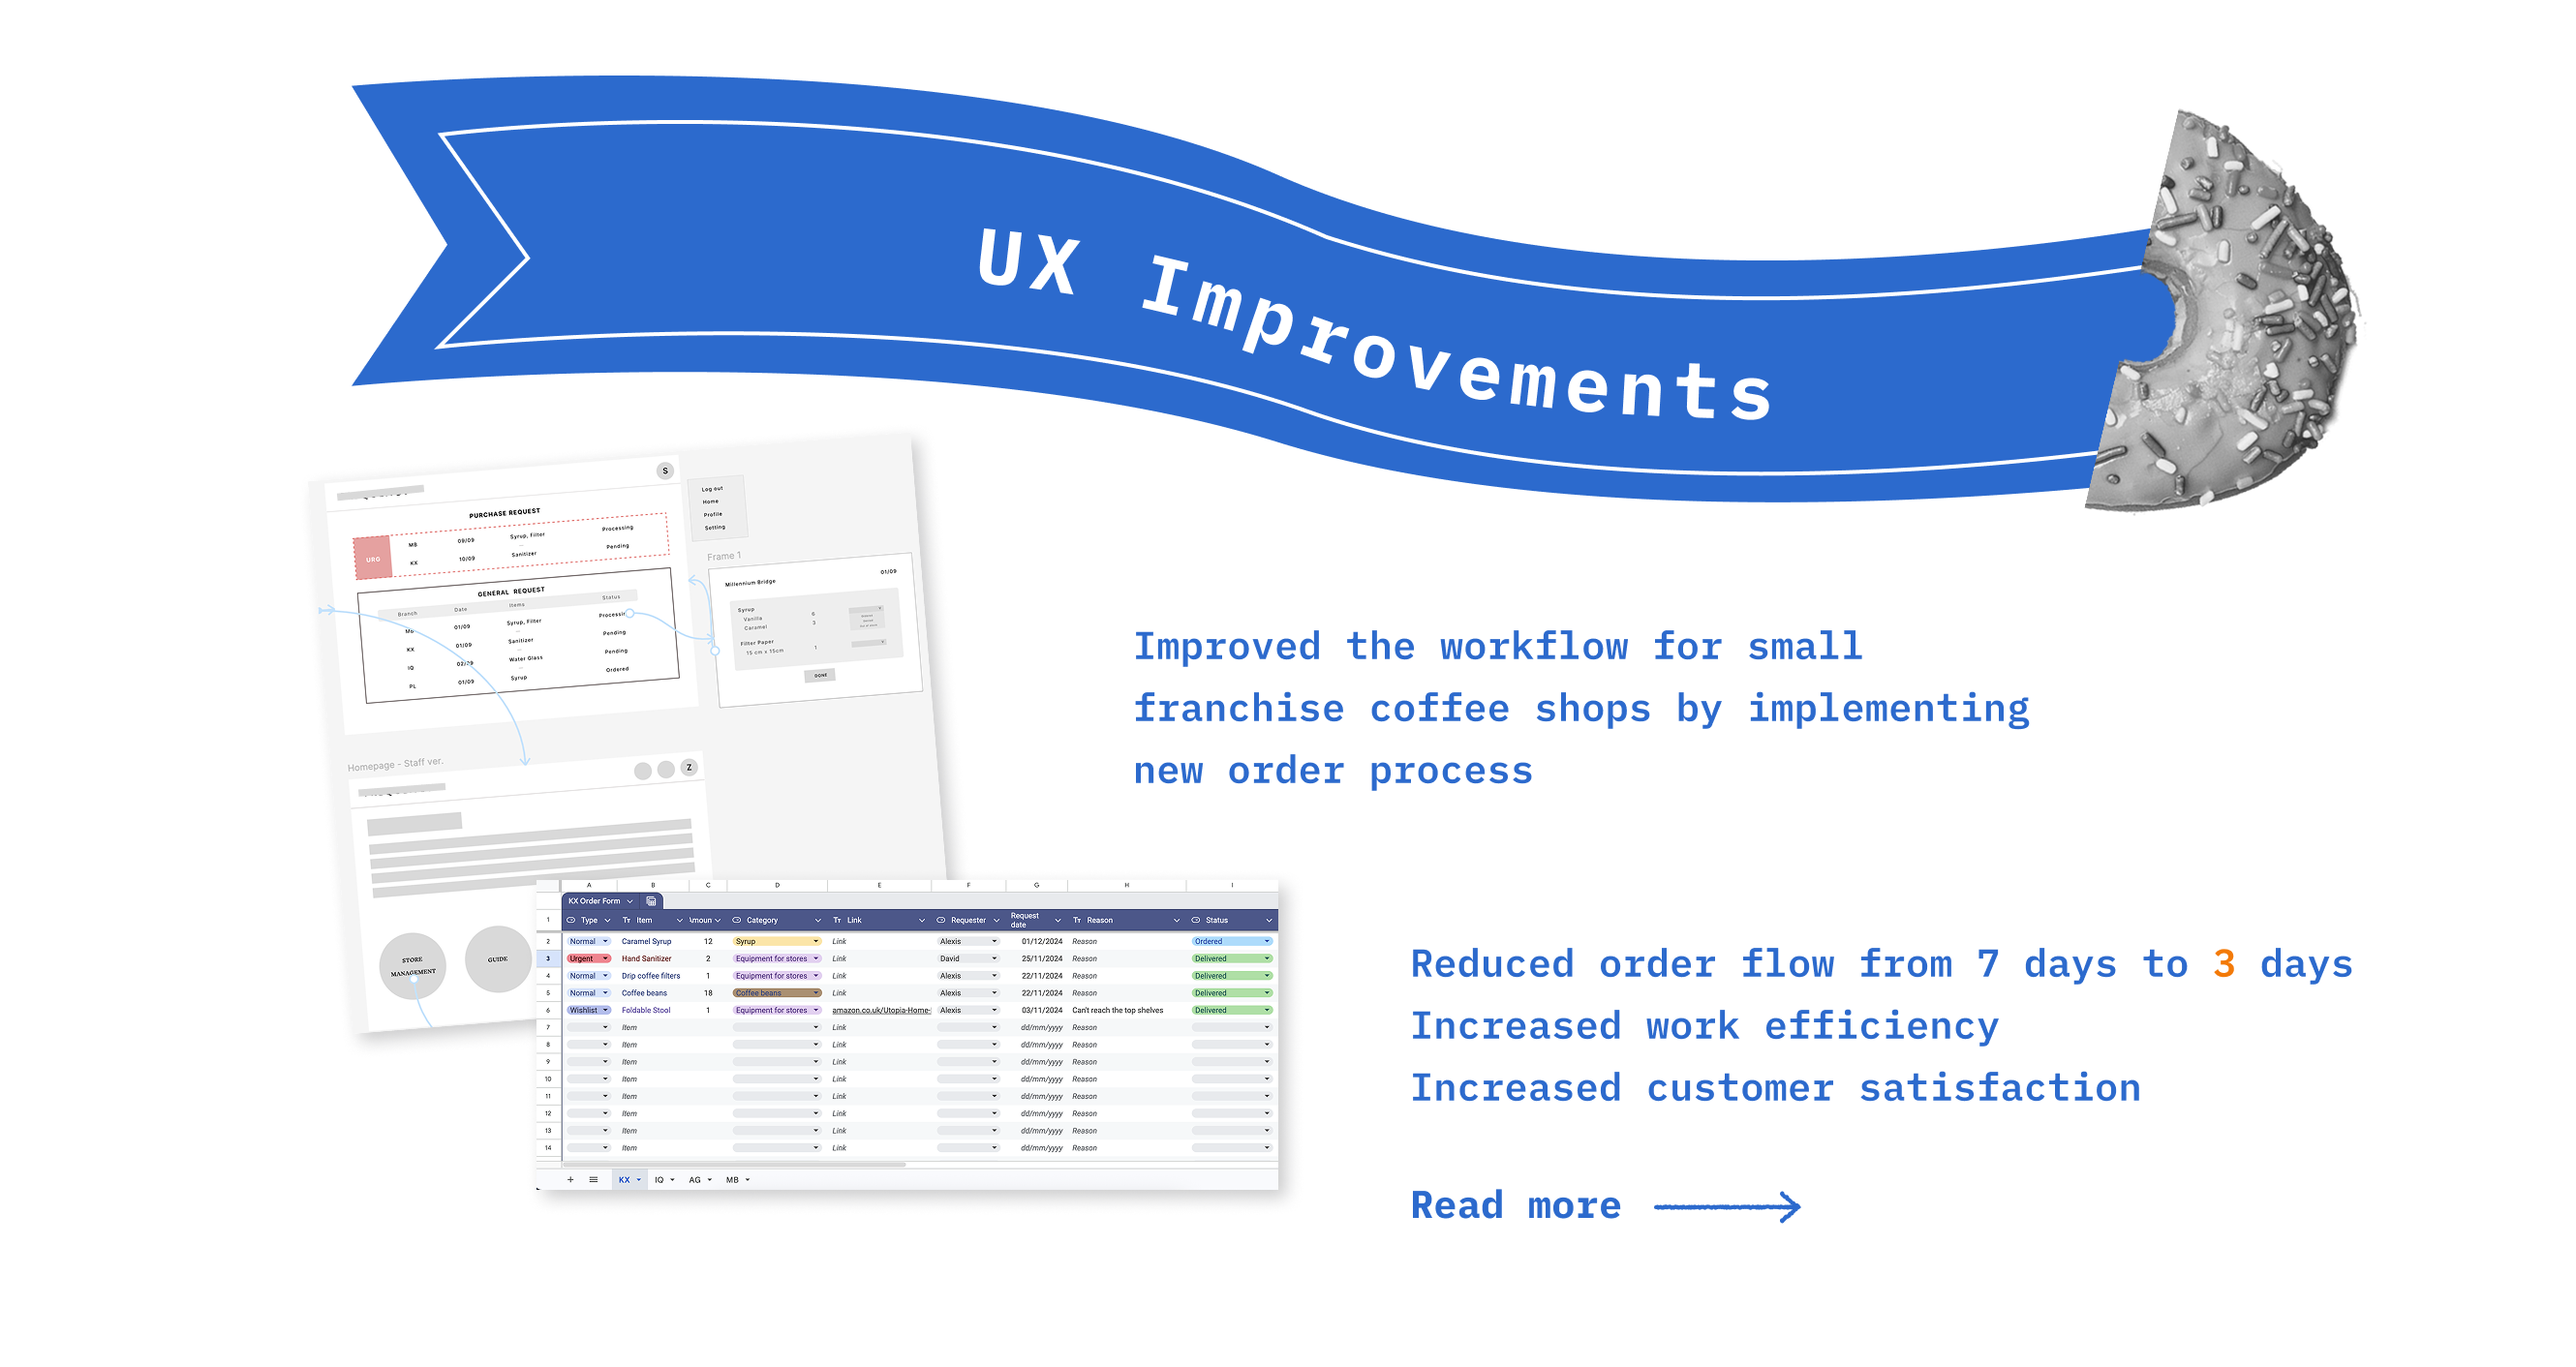
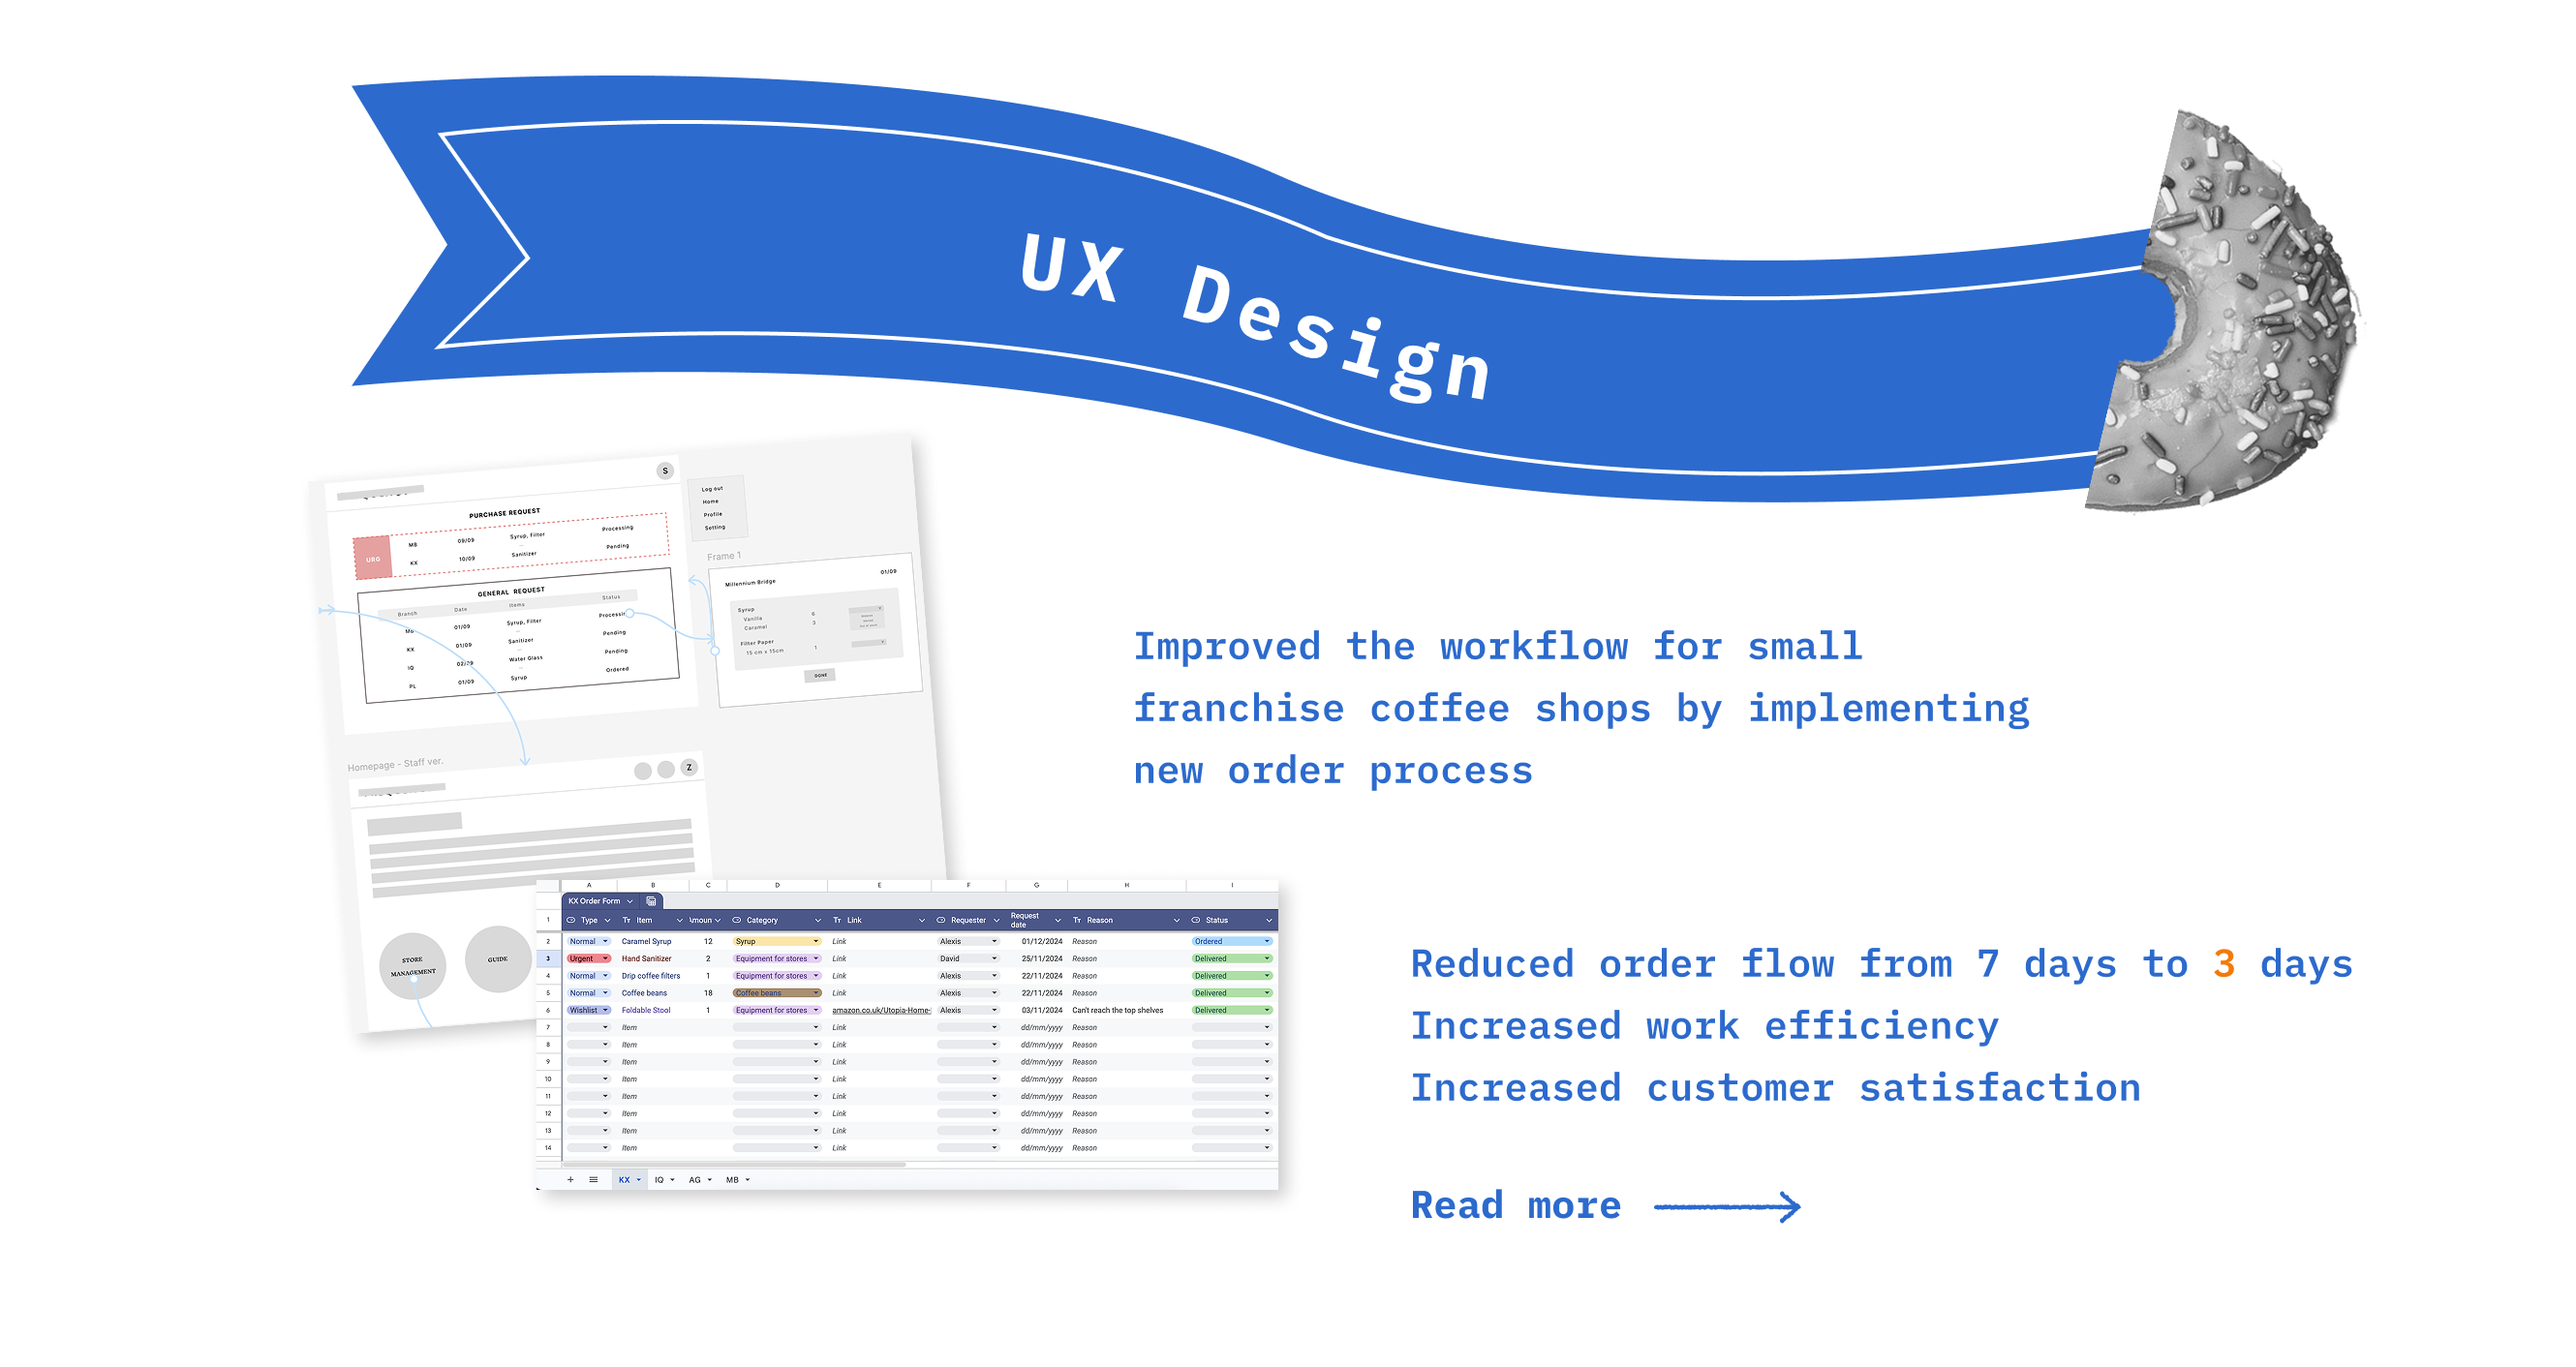
a lot of updates

Changed region(s): [[0.3744, 0.1558, 0.6865, 0.3116]]

diff --git a/Ordering process.html b/Ordering process.html
@@ -70,7 +70,7 @@
        <div class="subject">
             <img src="./public/port/G/Left_dunkin.png" alt="">
             <div class="pjtitle-CRM">
-                 <h3 class="subtitle lilita-one-regular blue">UX Improvements</h3>
+                 <h3 class="subtitle lilita-one-regular blue">CX Improvements</h3>
                  <h3 class="pjname lilita-one-regular blue">Ordering Process</h3>
                  <h3 class="thirdtitle lilita-one-regular blue">Franchise Coffee shops</h3>
 
@@ -175,11 +175,11 @@ C. Added signage in self-serve areas, displaying the different sizes of lids. Pl
         <div class="home_categories">
             <div class="foot_portfolio">
                 <li> <h5 class="lilex-regular white" >Portfolio</h5></li>
-                <Li><a class="lilex-regular" href="./englishcool.html">Product Analysis - English Learning App </a></Li>
+   <Li><a class="lilex-regular" href="./englishcool.html">Product Analysis - TOEIC App </a></Li>
                 <Li><a class="lilex-regular" href="./Crm.html">Product Design - CRM System </a></Li>
                 <Li><a class="lilex-regular" href="./Fruitfall.html">UX Improvements - Moblie Game</a></Li>
-                <Li><a class="lilex-regular" href="./ManagementSystem.html">UX Improvements - Internal Management System</a></Li>
-                <Li><a class="lilex-regular" href="./Ordering process.html">UX Improvements - Ordering Process</a></Li>
+                <Li><a class="lilex-regular" href="./ManagementSystem.html">UX Design- Internal Management System</a></Li>
+                <Li><a class="lilex-regular" href="./Ordering process.html">CX Improvements - Ordering Process</a></Li>
             </div>
             
       <li><a class="lilex-regular white" href="index.html#aboutme">About Me</a></li>

diff --git a/index.html b/index.html
@@ -95,7 +95,7 @@
             <a href="./ManagementSystem.html">
             <img src=".//public/caramel.png" alt="">
             <h4 class="lilex-regular blue">MANAGEMENT SYSTEM</h4>
-             <H4 class="lilex-regular donuttitle orange">UX Improvements</H4>
+             <H4 class="lilex-regular donuttitle orange">UX Design</H4>
             </a>
           </li>
           <li>
@@ -109,7 +109,7 @@
             <a href="./Ordering process.html">
             <img src="./public/dunkin.png" alt="">
             <h4 class="lilex-regular blue">ORDERING PROCESS</h4>
-             <H4 class="lilex-regular donuttitle orange">UX Improvements</H4>
+             <H4 class="lilex-regular donuttitle orange">CX Improvements</H4>
             </a>
           </li>
 
@@ -176,8 +176,8 @@
                 <Li><a class="lilex-regular" href="./englishcool.html">Product Analysis - TOEIC App </a></Li>
                 <Li><a class="lilex-regular" href="./Crm.html">Product Design - CRM System </a></Li>
                 <Li><a class="lilex-regular" href="./Fruitfall.html">UX Improvements - Moblie Game</a></Li>
-                <Li><a class="lilex-regular" href="./ManagementSystem.html">UX Improvements - Internal Management System</a></Li>
-                                                <Li><a class="lilex-regular" href="./Ordering process.html">UX Improvements - Ordering Process</a></Li>
+                <Li><a class="lilex-regular" href="./ManagementSystem.html">UX Design- Internal Management System</a></Li>
+                <Li><a class="lilex-regular" href="./Ordering process.html">CX Improvements - Ordering Process</a></Li>
 
             </div>
             

diff --git a/ManagementSystem.html b/ManagementSystem.html
@@ -60,7 +60,7 @@
        <div class="subject">
             <img src="./public/port/FQ/Left_caramel.png" alt="">
             <div class="pjtitle-FQ">
-                 <h3 class="subtitle lilita-one-regular">UX Improvements</h3>
+                 <h3 class="subtitle lilita-one-regular">UX Design</h3>
                  <h3 class="pjname lilita-one-regular">Internal Management System</h3>
                  <h4 class="explain lilita-one-regular blue">Small Franchise Coffee shops </h4>
 
@@ -162,11 +162,11 @@
         <div class="home_categories">
             <div class="foot_portfolio">
                 <li> <h5 class="lilex-regular white" >Portfolio</h5></li>
-                <Li><a class="lilex-regular" href="./englishcool.html">Product Analysis - English Learning App </a></Li>
+   <Li><a class="lilex-regular" href="./englishcool.html">Product Analysis - TOEIC App </a></Li>
                 <Li><a class="lilex-regular" href="./Crm.html">Product Design - CRM System </a></Li>
                 <Li><a class="lilex-regular" href="./Fruitfall.html">UX Improvements - Moblie Game</a></Li>
-                <Li><a class="lilex-regular" href="./ManagementSystem.html">UX Improvements - Internal Management System</a></Li>
-                                <Li><a class="lilex-regular" href="./Ordering process.html">UX Improvements - Ordering Process</a></Li>
+                <Li><a class="lilex-regular" href="./ManagementSystem.html">UX Design- Internal Management System</a></Li>
+                <Li><a class="lilex-regular" href="./Ordering process.html">CX Improvements - Ordering Process</a></Li>
 
             </div>
             

diff --git a/englishcool.html b/englishcool.html
@@ -238,11 +238,11 @@ Although the original interface of “EnglishCool” differentiated itself with 
         <div class="home_categories">
             <div class="foot_portfolio">
                 <li> <h5 class="lilex-regular white" >Portfolio</h5></li>
-                <Li><a class="lilex-regular" href="./englishcool.html">Product Analysis - English Learning App </a></Li>
+    <Li><a class="lilex-regular" href="./englishcool.html">Product Analysis - TOEIC App </a></Li>
                 <Li><a class="lilex-regular" href="./Crm.html">Product Design - CRM System </a></Li>
                 <Li><a class="lilex-regular" href="./Fruitfall.html">UX Improvements - Moblie Game</a></Li>
-                <Li><a class="lilex-regular" href="./ManagementSystem.html">UX Improvements - Internal Management System</a></Li>
-                                <Li><a class="lilex-regular" href="./Ordering process.html">UX Improvements - Ordering Process</a></Li>
+                <Li><a class="lilex-regular" href="./ManagementSystem.html">UX Design- Internal Management System</a></Li>
+                <Li><a class="lilex-regular" href="./Ordering process.html">CX Improvements - Ordering Process</a></Li>
 
             </div>
                  <li><a class="lilex-regular white" href="index.html#aboutme">About Me</a></li>

diff --git a/Fruitfall.html b/Fruitfall.html
@@ -164,11 +164,11 @@ The long-term objective is to <span style="font-weight: bold;">develop a unified
         <div class="home_categories">
             <div class="foot_portfolio">
                 <li> <h5 class="lilex-regular white" >Portfolio</h5></li>
-                <Li><a class="lilex-regular" href="./englishcool.html">Product Analysis - English Learning App </a></Li>
+      <Li><a class="lilex-regular" href="./englishcool.html">Product Analysis - TOEIC App </a></Li>
                 <Li><a class="lilex-regular" href="./Crm.html">Product Design - CRM System </a></Li>
                 <Li><a class="lilex-regular" href="./Fruitfall.html">UX Improvements - Moblie Game</a></Li>
-                <Li><a class="lilex-regular" href="./ManagementSystem.html">UX Improvements - Internal Management System</a></Li>
-                                <Li><a class="lilex-regular" href="./Ordering process.html">UX Improvements - Ordering Process</a></Li>
+                <Li><a class="lilex-regular" href="./ManagementSystem.html">UX Design- Internal Management System</a></Li>
+                <Li><a class="lilex-regular" href="./Ordering process.html">CX Improvements - Ordering Process</a></Li>
 
             </div>
             

diff --git a/Crm.html b/Crm.html
@@ -169,11 +169,11 @@
         <div class="home_categories">
             <div class="foot_portfolio">
                 <li> <h5 class="lilex-regular white" >Portfolio</h5></li>
-                <Li><a class="lilex-regular" href="./englishcool.html">Product Analysis - English Learning App </a></Li>
+            <Li><a class="lilex-regular" href="./englishcool.html">Product Analysis - TOEIC App </a></Li>
                 <Li><a class="lilex-regular" href="./Crm.html">Product Design - CRM System </a></Li>
                 <Li><a class="lilex-regular" href="./Fruitfall.html">UX Improvements - Moblie Game</a></Li>
-                <Li><a class="lilex-regular" href="./ManagementSystem.html">UX Improvements - Internal Management System</a></Li>
-                                <Li><a class="lilex-regular" href="./Ordering process.html">UX Improvements - Ordering Process</a></Li>
+                <Li><a class="lilex-regular" href="./ManagementSystem.html">UX Design- Internal Management System</a></Li>
+                <Li><a class="lilex-regular" href="./Ordering process.html">CX Improvements - Ordering Process</a></Li>
 
             </div>
             
